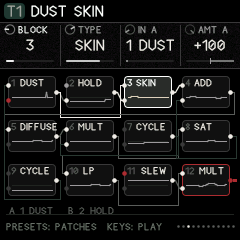
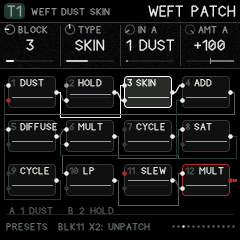
1.23.0: WEFT unpatch, black key 11 twice
On WEFT PATCH or WEFT BLOCK, black key 11 pressed twice takes every cord off
the selected block: its A and B, and every input reading it (SW 1-4 / LIS Y
too when it is the first SW 1>4 / LISSA). The block's type, settings and
amounts stay; the top line counts the cords that came off; both pages'
footers show the key. The simulator gets `expect wsrcb`;
tests/scenarios/weft_unpatch.rvl covers both pages; the manual's WEFT PATCH and
BLOCK screenshots are retaken with the new footer.

Claude-Session: https://claude.ai/code/session_01BwzGhPZLDZkrxZk5dy3Yyf

diff --git a/firmware/app/rv_ui.c b/firmware/app/rv_ui.c
@@ -332,7 +332,36 @@ static int track_has_pattern_steps(int t)          /* the current pattern only *
 }
 /* an action that destroys steps: the first try only warns; the same action again, after a pause
  * (so one quick spin of a knob can't do it) and within 2.5 s, does it */
-enum { CONF_KIND = 1, CONF_MODE, CONF_CLEAR, CONF_PRESET, CONF_PASTE, CONF_STRESS, CONF_LDEL, CONF_LCLR, CONF_SCENE, CONF_WSAVE = 40, CONF_WDEL, CONF_WINIT, CONF_WCLR };   /* (CONF_SCENE + the scene) */
+enum { CONF_KIND = 1, CONF_MODE, CONF_CLEAR, CONF_PRESET, CONF_PASTE, CONF_STRESS, CONF_LDEL, CONF_LCLR, CONF_SCENE, CONF_WSAVE = 40, CONF_WDEL, CONF_WINIT, CONF_WCLR, CONF_WUNP };   /* (CONF_SCENE + the scene) */
+/* every cord into block b and out of it: its A and B, and the inputs that read it (as SW 1-4 or LIS Y too,
+ * when it is the first SW 1>4 or LISSA, the one those read); the count taken off */
+static int wf_unpatch(rv_weft *w, int b)
+{
+    int i, n = 0, sw14 = -1, lis = -1;
+    for (i = 0; i < WF_BLOCKS; i++) {
+        if (w->type[i] == WO_SW14 && sw14 < 0)
+            sw14 = i;
+        if (w->type[i] == WO_LISSA && lis < 0)
+            lis = i;
+    }
+    n += w->a[b] != 0;
+    n += w->b[b] != 0;
+    w->a[b] = w->b[b] = 0;
+    for (i = 0; i < WF_BLOCKS; i++) {
+        uint8_t *in[2];
+        int k;
+        in[0] = &w->a[i];
+        in[1] = &w->b[i];
+        for (k = 0; k < 2; k++) {
+            int q = *in[k];
+            if (q && (q == b + 1 || (b == sw14 && q >= WS_SW1 && q <= WS_SW4) || (b == lis && q == WS_LISY))) {
+                *in[k] = 0;
+                n++;
+            }
+        }
+    }
+    return n;
+}
 static int confirmed(int what, const char *warn)
 {
     uint32_t now = plat_ms(), dt = now - ui.conf_at;
@@ -2780,6 +2809,31 @@ static void key_event(int k, int on)
             wl_do(bi);
         return;
     }
+    /* --- WEFT PATCH and WEFT BLOCK: black key 11 twice unpatches the block: every cord into it and out of
+     * it (its A and B, and the blocks that read it) comes off; the block, its settings and the amounts stay
+     * (v1.23) --- */
+    if ((cur_page()->pic == PIC_WEFT || cur_page()->pic == PIC_WEFTBLK) && bi == 10) {
+        if (on) {
+            rv_weft *w = &rv.weft[t];
+            int b = ui.wf_blk % WF_BLOCKS;
+            char m[40] = "BLOCK ";
+            if (!w->type[b])
+                msg("AN EMPTY BLOCK: NOTHING TO UNPATCH");
+            else if (confirmed(CONF_WUNP, "AGAIN: UNPATCH BLOCK")) {
+                int n = wf_unpatch(w, b);
+                sx_int(m + 6, b + 1);
+                if (!n)
+                    sx_cat(m, ": NO CORDS");
+                else {
+                    sx_int(m + sx_cat(m, ": "), n);
+                    sx_cat(m, n == 1 ? " CORD OFF" : " CORDS OFF");
+                    ui.wf_pre[t] = -1;
+                }
+                msg(m);
+            }
+        }
+        return;
+    }
     /* --- WEFT BLOCK: black key 1, what input B does (its own job, or the second setting) --- */
     if (cur_page()->pic == PIC_WEFTBLK && bi == 0) {
         if (on) {
@@ -3475,7 +3529,8 @@ static void draw_footer(void)
     case PR_LEARN: hint = "PRESETS: PICK ONE"; break;
     case PR_WLIB: hint = "SAVE: SAVE  BLK: LD SV DEL INIT CLR"; break;
     case PR_WEFT:
-        hint = pg->pic == PIC_WEFTBLK ? "BLK1: WHAT B MOVES" : pg->pic == PIC_WEFTMAP ? "THESE KNOBS ON WEFT PLAY" : "PRESETS: PATCHES  KEYS: PLAY";
+        hint = pg->pic == PIC_WEFTBLK ? "BLK1: B MOVES  11 X2: UNPATCH" : pg->pic == PIC_WEFTMAP ? "THESE KNOBS ON WEFT PLAY"
+             : pg->pic == PIC_WEFT ? "PRESETS  BLK11 X2: UNPATCH" : "PRESETS: PATCHES  KEYS: PLAY";
         break;
     case PR_STEPCUR: {                                /* the graph: which steps the keys hold, and OCT for more */
         static char gh[40];

diff --git a/host/ravel_host.c b/host/ravel_host.c
@@ -23,7 +23,7 @@
  *   expect tp T NAME VALUE        track T's (1..8) parameter, by its screen name
  *   expect mutes M | solos S       the muted / soloed tracks as a bitmask (T1 = 1)
  *   expect held T N               track T's synth voices held now
- *   expect wtype T B N | wsrc T B S   WEFT: track T's block B's type / input A's source
+ *   expect wtype T B N | wsrc T B S | wsrcb T B S   WEFT: track T's block B's type / input A's / input B's source
  *   expect wvoices N              WEFT voices sounding
  *   expect wbmove T B 0|1         WEFT: track T's block B's input B moves its second setting
  *   expect playstep T S           track T's playhead is on step S (1..64; 0: none)
@@ -604,6 +604,9 @@ int main(int argc, char **argv)
                 want = atoi(w3);
             } else if (!strcmp(b, "wsrc")) {                 /* WEFT: track T's block B's input A comes from S */
                 got = rv.weft[(atoi(w1) - 1) & 7].a[(unsigned)(atoi(w2) - 1) % WF_BLOCKS];
+                want = atoi(w3);
+            } else if (!strcmp(b, "wsrcb")) {                /* WEFT: track T's block B's input B comes from S */
+                got = rv.weft[(atoi(w1) - 1) & 7].b[(unsigned)(atoi(w2) - 1) % WF_BLOCKS];
                 want = atoi(w3);
             } else if (!strcmp(b, "wbmove")) {               /* WEFT: track T's block B's input B moves its second setting */
                 got = (rv.weft[(atoi(w1) - 1) & 7].bmove >> ((unsigned)(atoi(w2) - 1) % WF_BLOCKS)) & 1;

diff --git a/README.md b/README.md
@@ -374,6 +374,8 @@ Patch it on the FM-1's pages, or with the mouse or a finger in the emulator's **
 4. **SELECT** to **WEFT PATCH**: the twelve blocks as tiles in three rows, each with its number, its type and a live scope of its output. Cords run from a block's output (right) to an input (left: A above, B below); a coloured dot on an input is a built-in source (bone: PITCH; red: GATE or TRIG; verdigris: an LFO).
 5. **KNOB 1 (BLOCK)** picks a block, **KNOB 2 (TYPE)** sets what it is (an empty block becomes one; the voice is heard from the first block you make), **KNOB 3 (IN A)** picks where input A comes from and **KNOB 4** its amount.
 6. **SELECT** to **WEFT BLOCK** for the same block close up: KNOB 1–2 are input B and its amount, KNOB 3–4 the block's two settings. The picture shows what comes in on A and B, the block, what goes out, and where it goes. **Black key 1** sets what input B does: its own job (the table below), or **B MOVES**: B turns the block's second setting instead (a filter's RES, a ring's DECAY, a clip's BIAS…), up and down from where the knob leaves it, at audio rate. The B label says which; on WEFT PATCH a B port that moves a setting is bone.
+
+   **Unpatch a block:** on WEFT PATCH or WEFT BLOCK, press **black key 11** twice (the first press asks: AGAIN: UNPATCH BLOCK). Every cord into the block and out of it comes off: its inputs A and B, and every input that was reading it (and SW 1–4 or LIS Y, if it is the patch's first SW 1>4 or LISSA, the one those read). The block keeps its type, its settings and its amounts, and the top line says how many cords came off. An empty block has nothing to unpatch.
 7. **SELECT** to **WEFT MAP**: KNOB 1 picks one of PLAY's four knobs, KNOB 2 the setting it turns (any block's), KNOB 3 **OUT**, the block the voice is heard from (**AUTO**, the default: the last block that isn't an output block, or, if the patch has AUDIO blocks, just them), KNOB 4 **RUN**: **KEYS** (the default: the patch plays while a key is held, and its tail) or **ALWAYS** (one voice runs on its own, no key needed: a drone, a self-clocking network, a patch that drives other tracks; the GATE and TRIG sources still follow the keys, so leave them out of what should run, and PITCH is the last note played). The track's LEVEL is on MIX. **VOICES** (1 or 2) is on SOUND.
 8. **SELECT** to **WEFT RATE**: KNOB 1 **RATE**: **FULL** (the default: every block at 44.1 kHz, as the patch was made) or **HALF** (the whole patch at 22 kHz, then brought back up: about half the time on the FM-1; what goes is the top octave, above about 10 kHz, and it gets a little grit, so it suits drones, feedback networks, bodies and noise more than bright leads). Times, pitches and envelopes stay as they were. KNOB 2 is RUN again. The picture shows what the track takes now. RATE is saved with the patch (and in its file from the emulator).
 
@@ -1593,6 +1595,7 @@ The full walkthrough is [GLITCH LOOPER, step by step](#step-by-step).
 | Patch a voice from blocks | EDIT › SOUND, KIND = WEFT; WEFT PATCH: KNOB 1 block, 2 type, 3–4 input A; WEFT BLOCK: input B, settings |
 | Load, save, delete WEFT patches | WEFT LIBRARY: KNOB 1 picks, black key 1 load, 2 save (into a new slot unless on one of yours), 3 delete, 4 INIT, 5 CLEAR (twice each); KNOB 3–4 rename |
 | WEFT: input B moves a setting | WEFT BLOCK: black key 1 |
+| WEFT: take every cord off a block | WEFT PATCH or BLOCK: black key 11 twice |
 | WEFT: a sequential switch | SW 1>4 (outs SW 1–4 in the input menus) or SW 4>1 (A: the first of four in a row) |
 | A WEFT patch clocks a sequencer | CLK OUT in the patch; that track's TRACK › CLOCK = WEFT |
 | A WEFT patch moves another track's steps | SEQ OUT: TRACK, MODE (STEP, JUMP, RESTART, GATE, PATTERN), A its trigger |

diff --git a/CHANGELOG.md b/CHANGELOG.md
@@ -3,6 +3,11 @@
 What each release of Ravel adds and fixes. The release workflow puts a version's section at the top of its
 GitHub release; a version with no section here gets its commits listed instead. Newest first.
 
+## 1.23.0
+
+New
+- WEFT: **black key 11** twice on WEFT PATCH or WEFT BLOCK unpatches the block: every cord into it and out of it comes off (its A and B, and every input reading it), the block, its settings and amounts kept; the top line says how many came off, and the footer shows the key on both pages.
+
 ## 1.22.2
 
 Fixed
